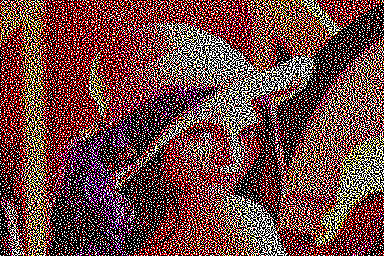
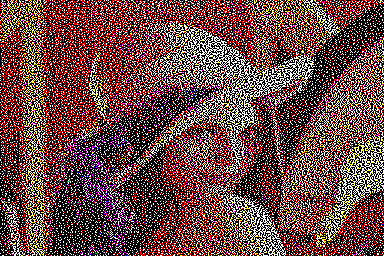
minor changes

diff --git a/app.py b/app.py
@@ -40,7 +40,7 @@ def upload():
     return jsonify(data);
 
 def generate_image_shares(input_image_path):
-    # evcs_encrypt(vc_scheme, resolution, input_image_path, "visual_cryptography/output_files", "visual_cryptography/cover_imgs", cover_imgs)
+    evcs_encrypt(vc_scheme, resolution, input_image_path, "visual_cryptography/output_files", "visual_cryptography/cover_imgs", cover_imgs)
     data = {"image_shares" : []}
     for i in range(vc_scheme[1]):
         image_string = ""
